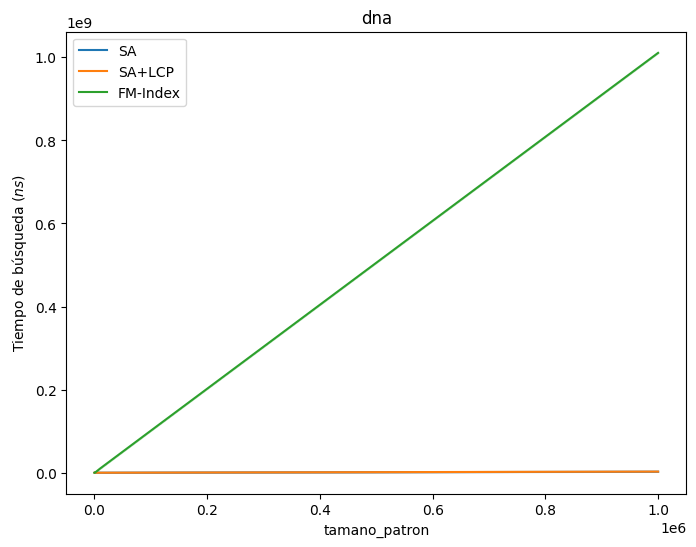
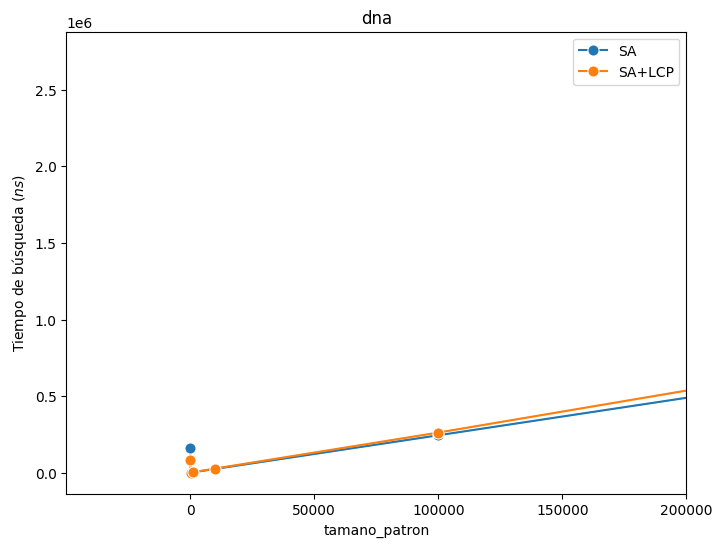
Graficos

diff --git a/Proyecto2_Graficos/graficos_busqueda.py b/Proyecto2_Graficos/graficos_busqueda.py
@@ -9,7 +9,9 @@ def plot_tbusqueda_lengthpatron(data):
     for dataset in data["archivo_original"].unique():
         fig, ax = plt.subplots(figsize=(8, 6))
         data_i = data[data["archivo_original"] == dataset]
-        sns.lineplot(data=data_i, x="tamano_patron", y="tiempo_busqueda_ns", ax=ax, hue = "Estructura")#, palette = palette)
+        data_i = data_i[data_i["Estructura"] != "FM-Index"]
+        sns.lineplot(data=data_i, x="tamano_patron", y="tiempo_busqueda_ns", ax=ax, hue = "Estructura", marker="o", markersize=8)#, palette = palette)
+        ax.set_xlim(left=None, right=200000)
         ax.legend()
         ax.set_ylabel(r"Tiempo de búsqueda ($ns$)")
         ax.set_title(dataset)
@@ -41,4 +43,5 @@ if __name__ == "__main__":
     df_3 = pd.read_csv("FM-busquedas.csv")
     df_3["Estructura"] = "FM-Index"
     data_busqueda = pd.concat([df_1,df_2,df_3])
+    print(data_busqueda["archivo_original"].unique())
     plot_tbusqueda_lengthpatron(data_busqueda)
